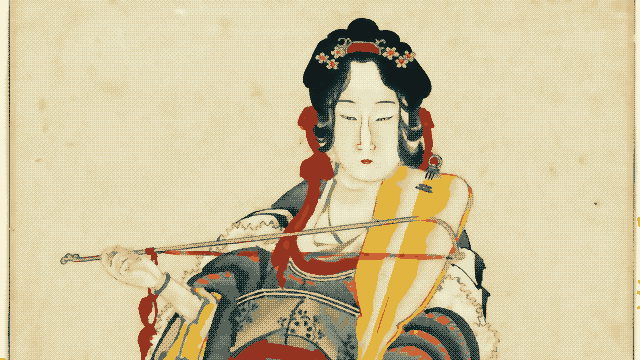
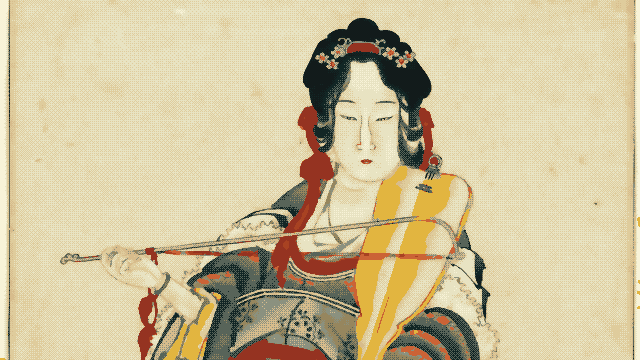
masters (T18): the light ramp in lightness order — midtones no longer invert (the master's must-fix 2)
faint (OKLab L 0.646) stood before lo (0.624) while quantise() searches the ramp sorted:
swapped, and the builder now refuses a ramp out of order. The ten light pictures rebuilt
(the dark ones unchanged, byte for byte).

diff --git a/tools/build-masters.py b/tools/build-masters.py
@@ -55,7 +55,7 @@ _spec.loader.exec_module(_wada)
 _P = _wada.palette()[0]
 RAMP = {
     "dark": [_P["dark"][k] for k in ("lo", "ground", "edge", "edge2", "hi", "art_umber", "art_olive", "gold", "art_kinari", "strong")],
-    "light": [_P["light"][k] for k in ("strong", "text", "muted", "faint", "lo", "edge2", "edge", "ground", "key")],
+    "light": [_P["light"][k] for k in ("strong", "text", "muted", "lo", "faint", "edge2", "edge", "ground", "key")],
 }
 ACCENT = {
     "dark": [_P["dark"][k] for k in ("accent_lo", "accent", "flame", "asagi")],
@@ -143,6 +143,8 @@ def quantise(lab, mood, chroma=0.07, hue_deg=40, margin=0.1):
     L = lab[..., 0]
     # the ramp: the step below and the step above, and how far between
     rl = ramp[:, 0]
+    if np.any(np.diff(rl) <= 0):     # (searchsorted needs a climbing ramp: one out of order inverts midtones)
+        sys.exit(f"build-masters: the {mood} ramp is not in OKLab lightness order: {np.round(rl, 3).tolist()}")
     k = np.clip(np.searchsorted(rl, L) - 1, 0, len(rl) - 2)
     f = np.clip((L - rl[k]) / np.maximum(rl[k + 1] - rl[k], 1e-9), 0, 1)
     thr = np.tile(BAYER, (H // 4 + 1, W // 4 + 1))[:H, :W] + 0.5
